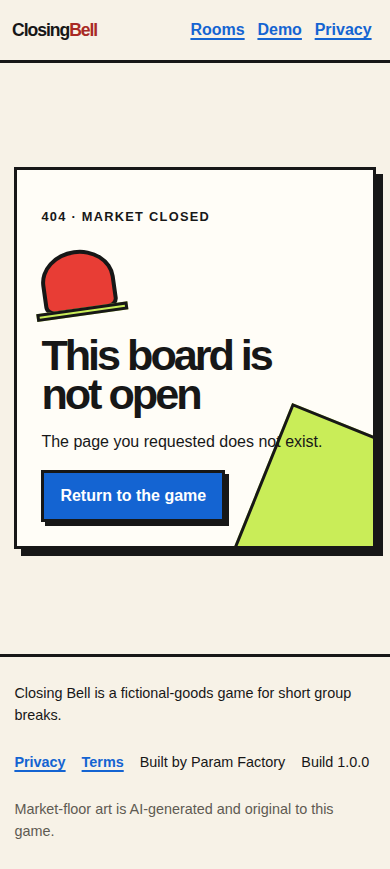
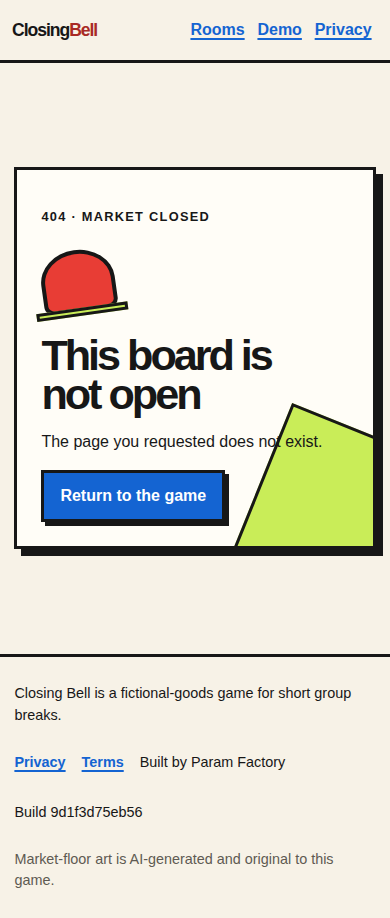
qa: record final static 404 release

diff --git a/.factory/handoff.md b/.factory/handoff.md
@@ -4,8 +4,8 @@
 
 The strict-review finding is fixed and deployed.
 
-- Product implementation: `37ff32167a108b872ef9b2588b142233b72f834e`
-  (`fix: complete static 404 shell`)
+- Product implementation: `9d1f3d75eb56afc3c3b439c815480f4d39e6dfb2`
+  (`fix: align static 404 build label`)
 - Realtime implementation: `bfbbfb4a69a1a279f7e247657c7303d355f38cb6`
   (unchanged by this static repair)
 - Deployment target: <https://closing-bell.sociobot.in>
@@ -16,12 +16,15 @@ The strict-review finding is fixed and deployed.
 
 - Added the shared Rooms, Demo, and Privacy navigation to the static 404 page.
 - Completed the 404 footer with the product one-liner, Privacy, Terms, Param
-  Factory credit, generated-art disclosure, and `Build 1.0.0` version ID.
+  Factory credit, generated-art disclosure, and the same generated build ID
+  shown on the app routes.
 - Matched the game’s touch targets, focus treatment, responsive header, and
   neo-brutalist visual tokens on the 404 page.
 - Replaced the old source/config-string 404 regression with a browser outcome
   test. It verifies the rendered shell at 390 px, follows Terms and Demo, and
-  checks for console errors and overflow.
+  checks for console errors, overflow, and the same build ID as the app footer.
+- Emit a CSP-safe `/404-build.js` during Vite builds so the static 404 uses the
+  exact deployment revision without an inline script or a fixed placeholder.
 
 ## Verification
 
@@ -59,6 +62,8 @@ Fresh production desktop and phone contexts showed:
   the completed header/footer, no horizontal overflow, and no accessibility
   violations. The browser’s network-status message for the intentional 404 is
   expected, not a page error.
+- The final cold check showed `Build 9d1f3d75eb56` on desktop, phone, and the
+  static 404. The live `/404-build.js` byte-matched the candidate build.
 
 The live realtime identity and limits passed:
 
